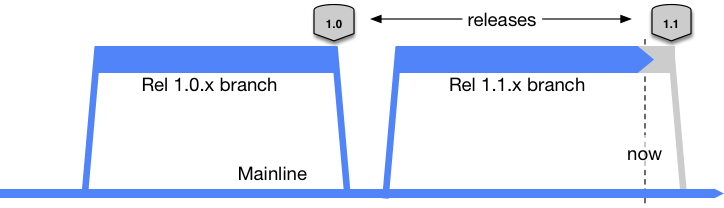
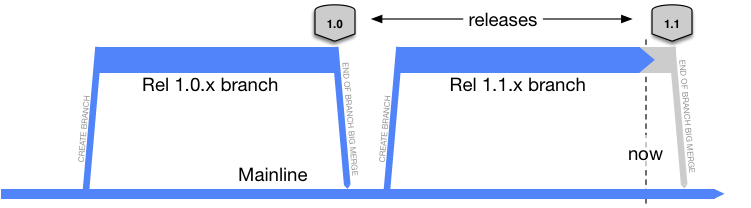
enumerate problems

diff --git a/content/alternative-branching-models/index.md b/content/alternative-branching-models/index.md
@@ -6,14 +6,14 @@ weight: 30
 
 ## Modern claimed high-throughput branching models
 
-### GitFlow and a like
+### GitFlow and alike
 
 ## Legacy branching models
 
 ### Mainline
 
 Mainline is a branching model that was promoted for ClearCase implementations. It is the principal branching 
-model that Trunk Based Development opposes. Mainline is a branch that will last forever*. Off that branches are formed
+model that Trunk Based Development opposes. Mainline is a branch that will last forever*. Off that, branches are formed
 for teams to do development work on. When that work is complete, a release may happen from that branch, and there's a
 **big** merge down to the mainline. On the way to the release, the branch may be frozen. 
 
@@ -26,20 +26,23 @@ When bugs inevitably happen:
 ![](/images/mainline2.png)
 
 Whenever there's a bug fix there has to be a merge down to the mainline afterwards. There's no 'wrong' in this modified
-branch diagram, but you should be able to guess what the worst case branching/merging scenario is:
+branch diagram, but you should be able to guess what the worst case branching/merging scenario is. In case you cannot:
 
 ![](/images/mainline3.png)
 
-**Merges and cherry picks**
+**Merges and cherry picks for the above**
 
-1. TODO
-1. TODO
-1. TODO
-1. TODO
-1. TODO
-1. TODO
-1. TODO
-1. TODO
+1. Release 1.1 team persuades the release 1.0 team to bring something back to Mainline early (and incomplete) before they cut their branch
+1. Release 1.1 team merges the release 1.0 work upon apparent completion
+1. Release 1.0 team merges post-release bug fixes back to Mainline
+1. Release 1.2 team persuades the release 1.1 team to bring something back to Mainline early (and incomplete) before they cut their branch
+1. Release 1.1 team merges from Mainline, to pick up #3
+1. Release 1.2 team merges the release 1.1 work upon apparent completion
+1. Release 1.1 team merges post-release bug fixes back to Mainline
+1. Release 1.2 team merges from Mainline, to pick up #7
+
+All of these compromises versus the planned "consecutive development of consecutive releases". In many cases it is worse,
+particular when the numbers of developers goes up.
 
 &#10033; Companies that choose 'Mainline' wither and die, we claim, so there's no forever.
 
